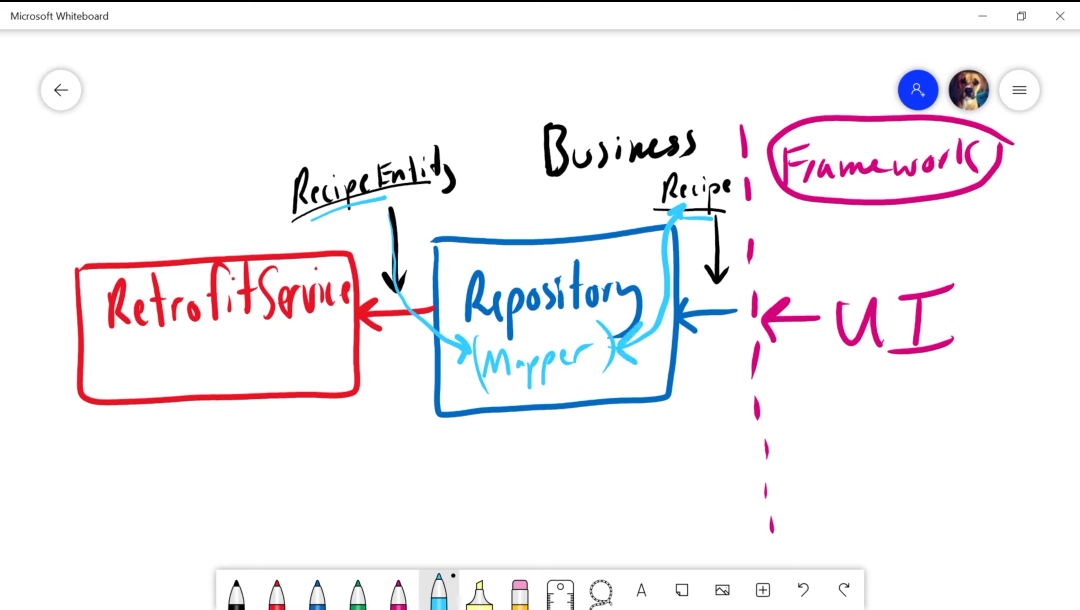
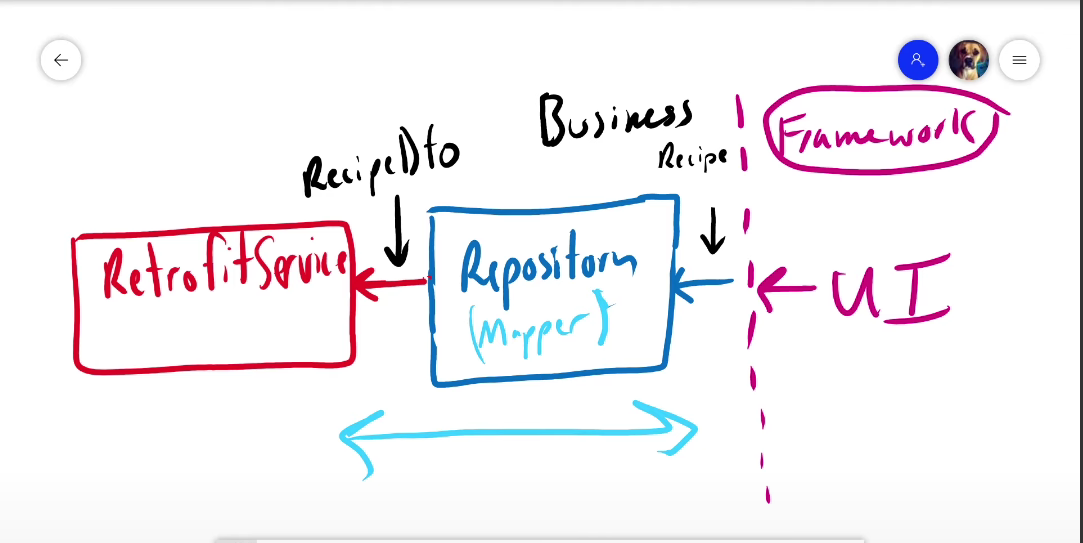
repository setup

diff --git a/app/src/main/java/com/fjr619/composebeginner/repository/RecipeRepository_Impl.kt b/app/src/main/java/com/fjr619/composebeginner/repository/RecipeRepository_Impl.kt
@@ -1,0 +1,20 @@
+package com.fjr619.composebeginner.repository
+
+import com.fjr619.composebeginner.domain.model.Recipe
+import com.fjr619.composebeginner.network.RecipeService
+import com.fjr619.composebeginner.network.model.RecipeDtoMapper
+
+class RecipeRepository_Impl (
+    private val recipeService: RecipeService,
+    private val mapper: RecipeDtoMapper,
+): RecipeRepository {
+
+    override suspend fun search(token: String, page: Int, query: String): List<Recipe> {
+        return mapper.fromEntityList(recipeService.search(token = token, page = page, query = query).recipes)
+    }
+
+    override suspend fun get(token: String, id: Int): Recipe {
+        return mapper.mapToDomainModel(recipeService.get(token = token, id))
+    }
+
+}

diff --git a/app/src/main/java/com/fjr619/composebeginner/repository/RecipeRepository.kt b/app/src/main/java/com/fjr619/composebeginner/repository/RecipeRepository.kt
@@ -1,0 +1,9 @@
+package com.fjr619.composebeginner.repository
+
+import com.fjr619.composebeginner.domain.model.Recipe
+
+interface RecipeRepository {
+    suspend fun search(token: String, page: Int, query: String): List<Recipe>
+
+    suspend fun get(token: String, id: Int): Recipe
+}
